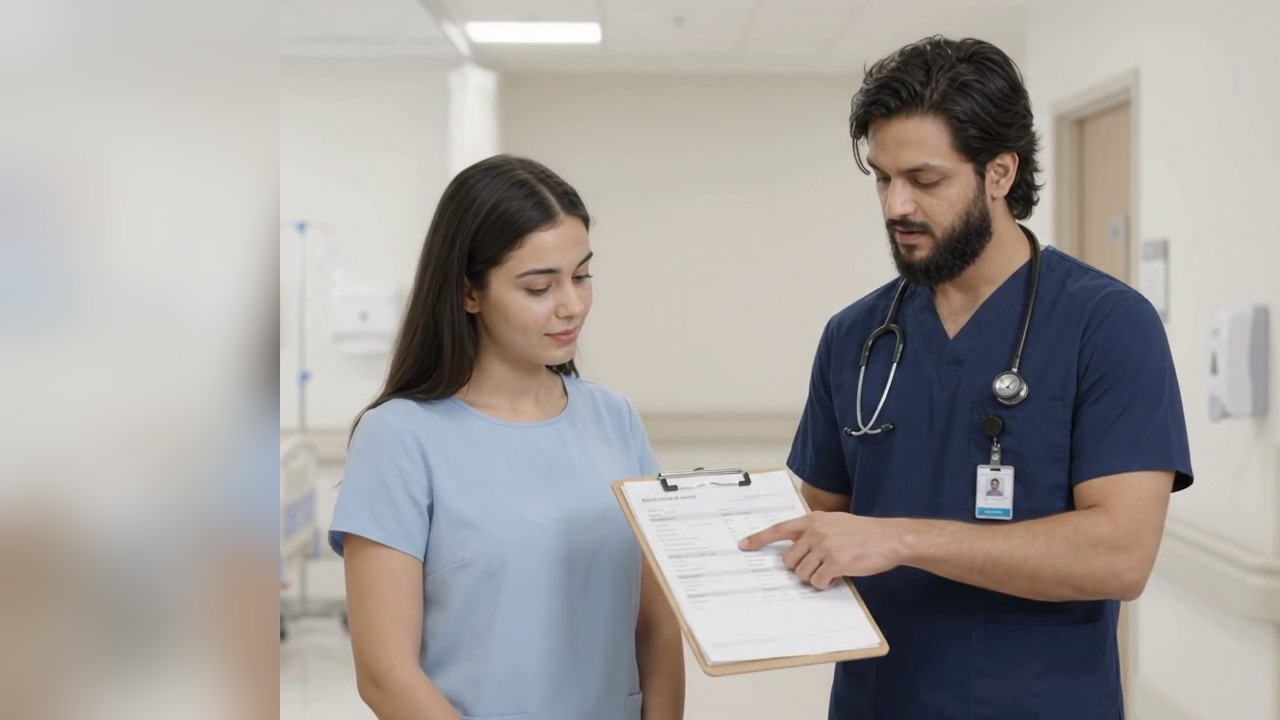
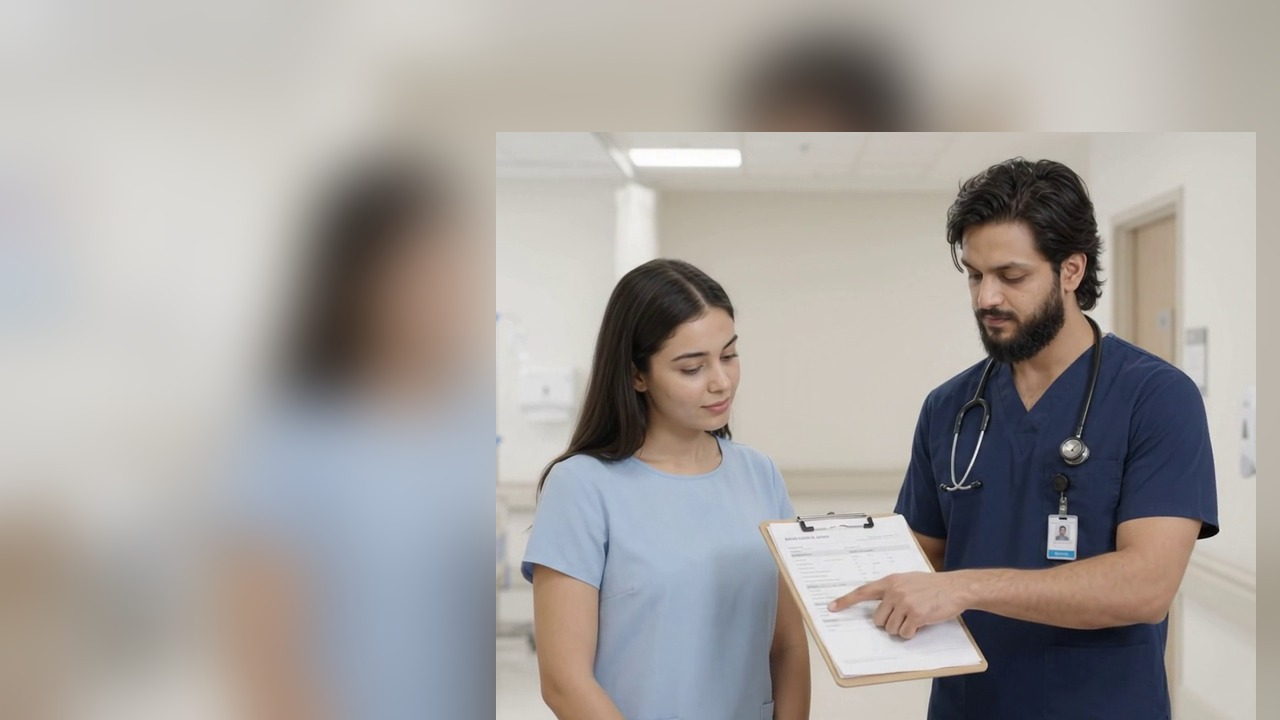
Thumbnails: report scene shows the host and the young lady in full; lighter shading on scene days
Claude-Session: https://claude.ai/code/session_01QxHNsVEEH4evQ17iDsM5sX

diff --git a/youtube_agent/visuals.py b/youtube_agent/visuals.py
@@ -794,8 +794,9 @@ def make_thumbnail(text: str, channel_name: str, out: Path, background: Path | N
     # Dark brand gradient on the left so the text pops; the photo stays visible on the right
     shade = Image.new("RGBA", (W, H), (0, 0, 0, 0))
     sd = ImageDraw.Draw(shade)
+    dark_to, fade = (0.30, 0.12) if scene_day else (0.38, 0.30)  # scenes: keep both people in the light
     for x in range(W):
-        a = 245 if x < W * 0.38 else int(245 * max(0.0, 1 - (x - W * 0.38) / (W * 0.30)))
+        a = 245 if x < W * dark_to else int(245 * max(0.0, 1 - (x - W * dark_to) / (W * fade)))
         sd.line([(x, 0), (x, H)], fill=(*DARK, a))
     img.alpha_composite(shade)
     d = ImageDraw.Draw(img)
@@ -826,7 +827,7 @@ def make_thumbnail(text: str, channel_name: str, out: Path, background: Path | N
         host_img = Image.open(host).convert("RGBA")
     if host_img and host_img.height < host_img.width * 1.6:  # a pose that is already waist-up: show all of it
         zoom = 1.0
-    max_w, max_lines = int(W * (0.53 if host_img else 0.46 if scene_day else 0.62)), 3
+    max_w, max_lines = int(W * (0.53 if host_img else 0.37 if scene_day else 0.62)), 3
     size = 150
     bottom_limit = H - 120  # keep clear of the brand badge
     while size > 70:
